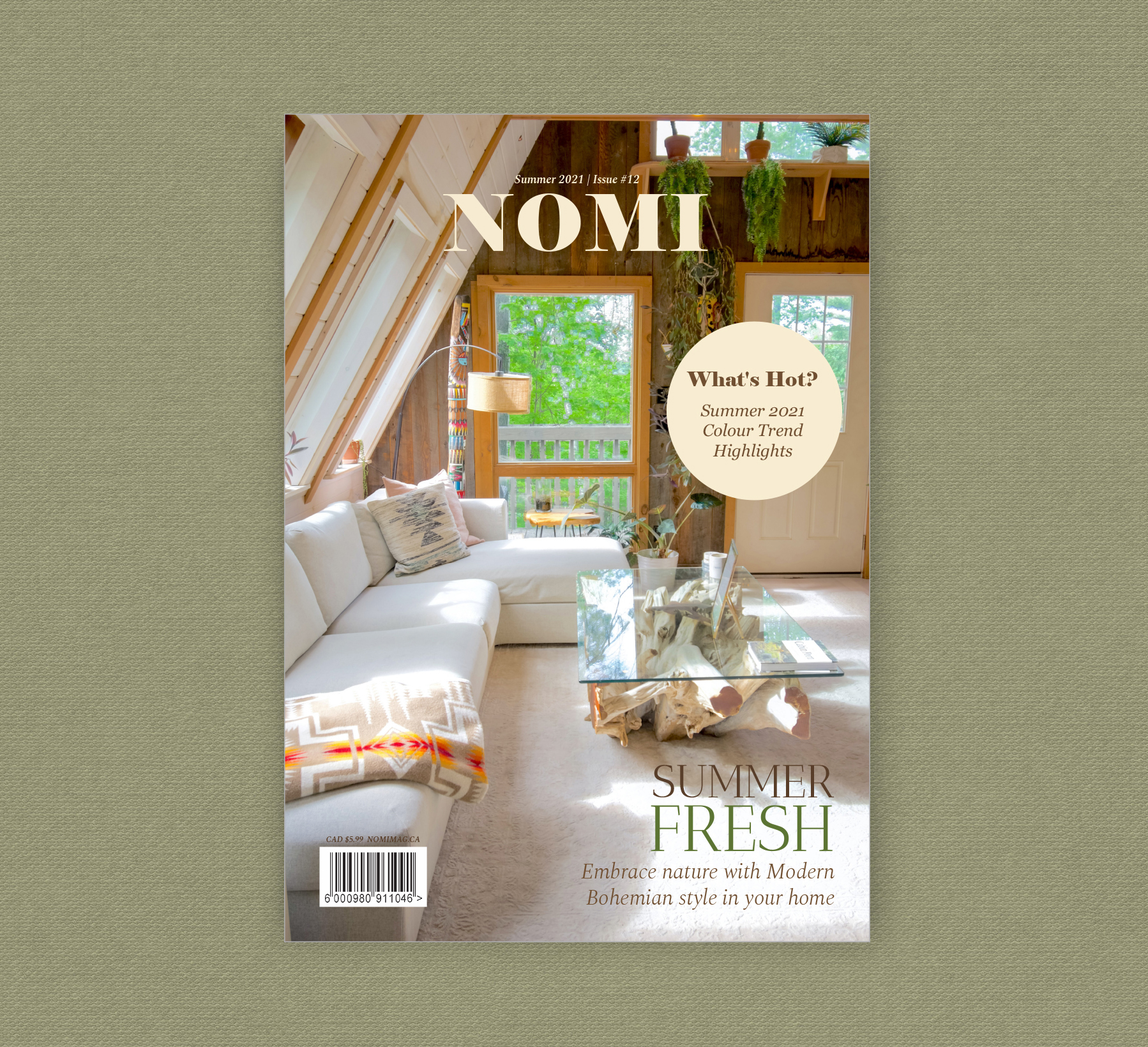
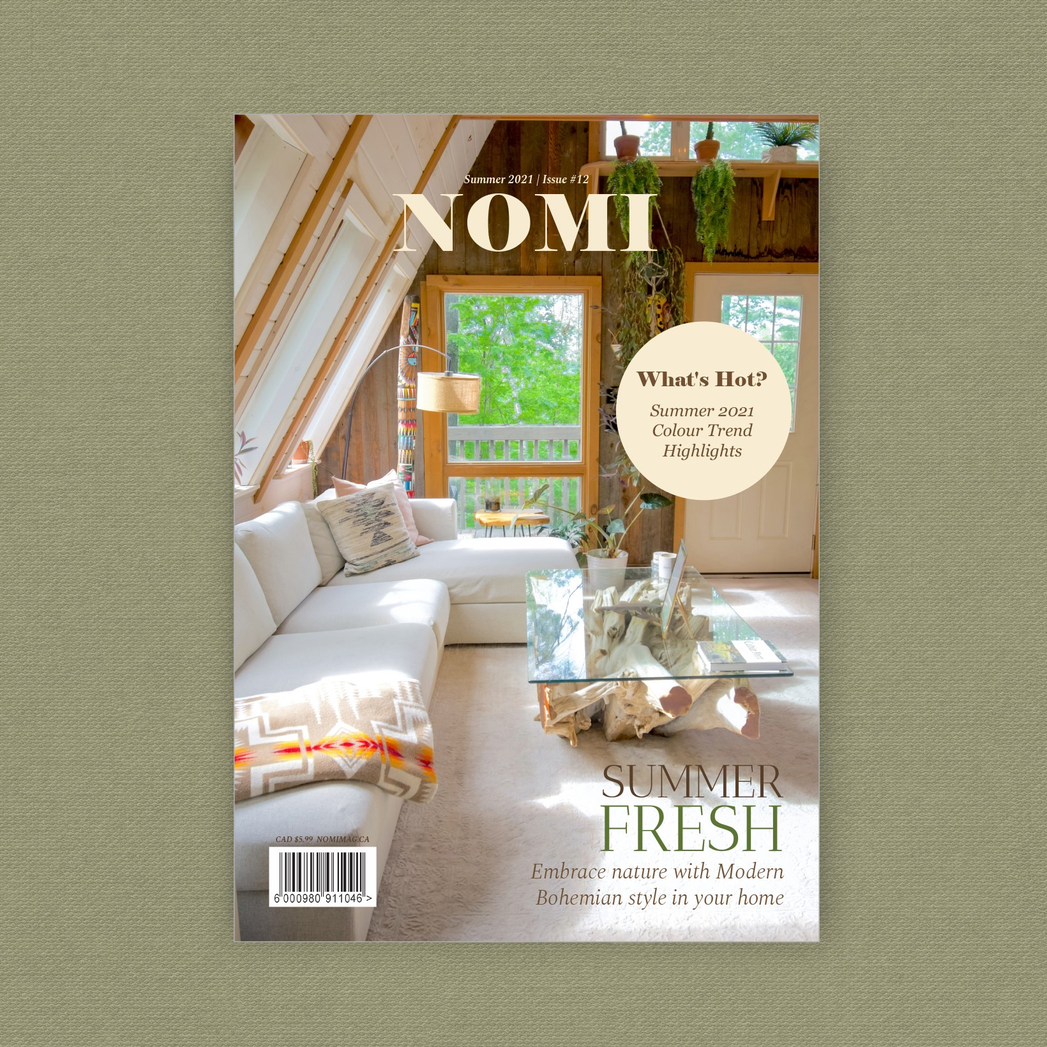
update images

diff --git a/index.html b/index.html
@@ -81,7 +81,7 @@
     </div>
     <div class="home-flex1">
       <div class="home-project">
-        <img src="img/265-step2.jpeg" alt="265-step">
+        <img src="img/265-thumb.jpg" alt="265-step">
         <a href="p2.html">
           <div class="overlay">
             <div class="text">
